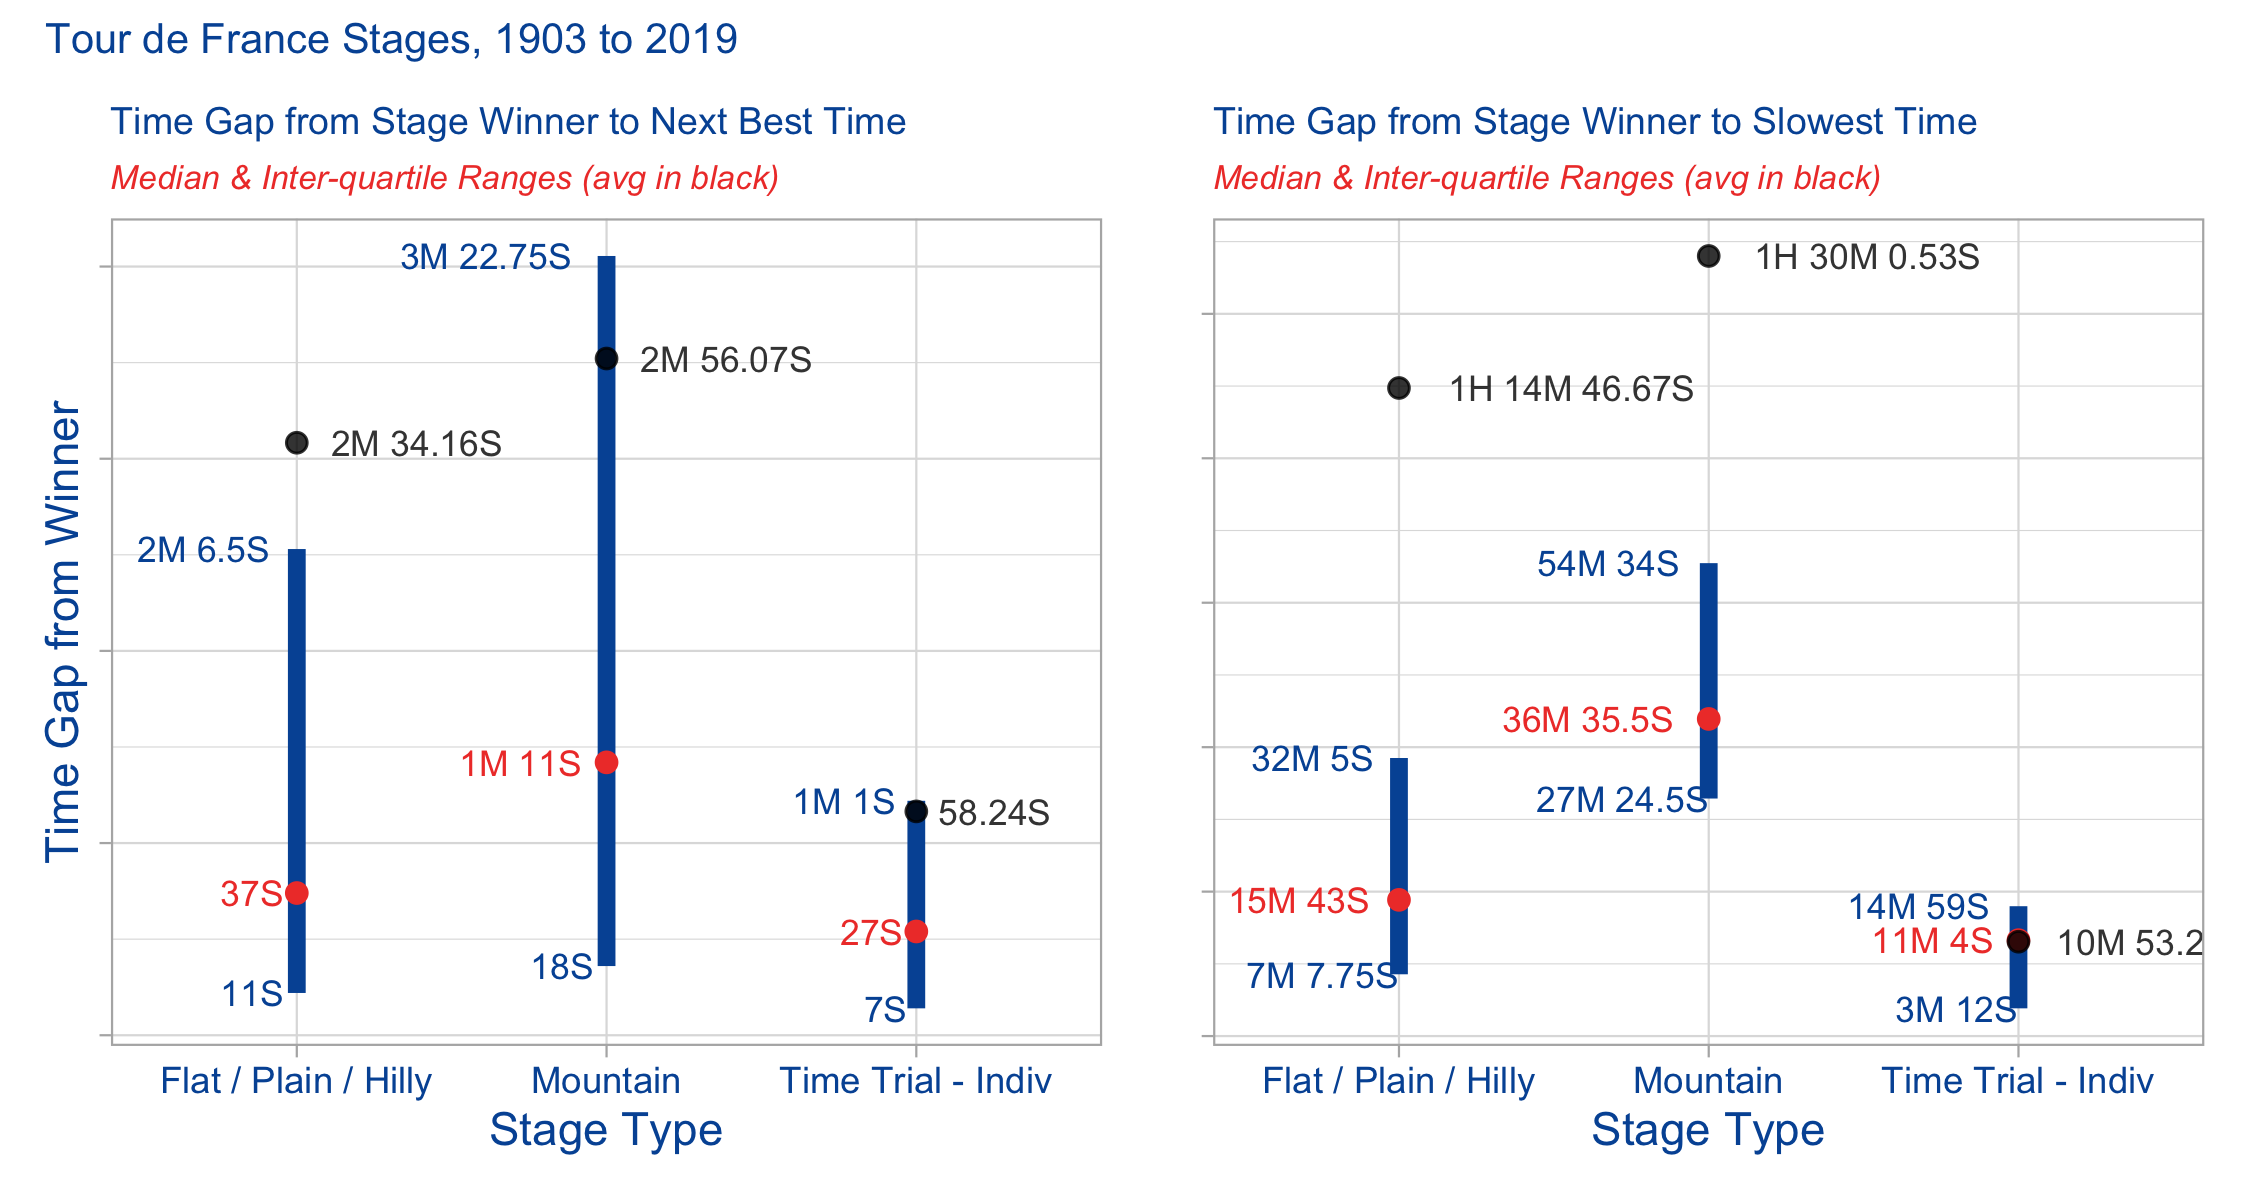
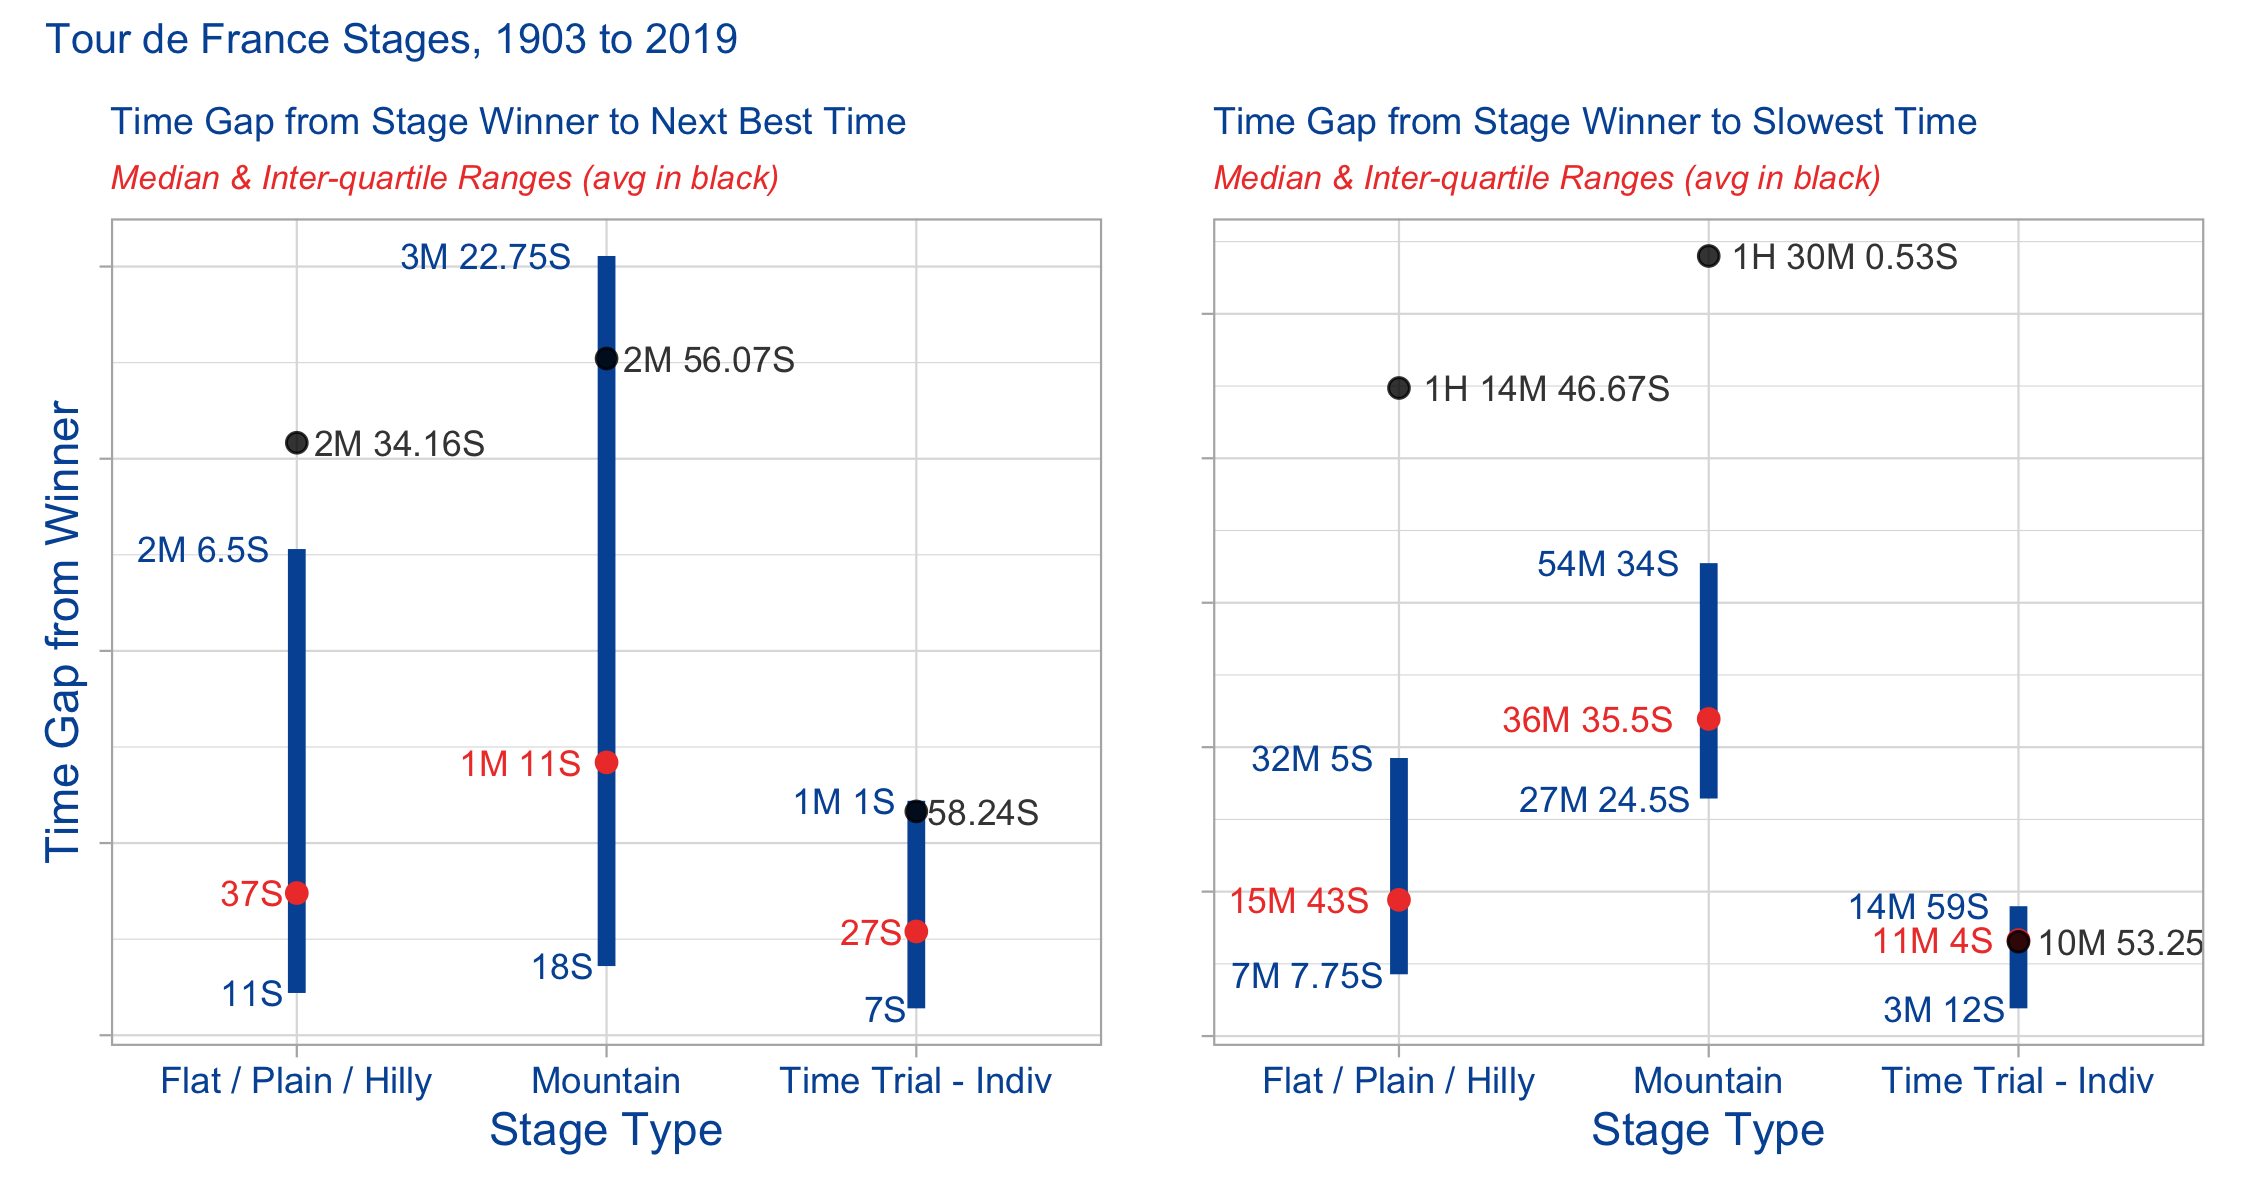
le tour stage 3

diff --git a/2020/tt_2020-04-07_letour/README.md b/2020/tt_2020-04-07_letour/README.md
@@ -407,7 +407,7 @@ gapranges %>%
   geom_text(aes(y = lq, label = lq_tp), 
             size = 3, color = "#0055A4", hjust = 1.2) +
   geom_text(aes(label = avggap_tp, y = avggap_tp),
-            size = 3, color = "black", alpha = .8, hjust = -.2) +
+            size = 3, color = "black", alpha = .8, hjust = -.1) +
   labs(title = "Time Gap from Stage Winner to Next Best Time",
        subtitle = "Median & Inter-quartile Ranges (avg in black)",
        y = "Time Gap from Winner", x = "Stage Type") +
@@ -432,9 +432,9 @@ gapranges %>%
   geom_text(aes(y = uq, label = uq_tp), 
             size = 3, color = "#0055A4", hjust = 1.2) +
   geom_text(aes(y = lq, label = lq_tp), 
-            size = 3, color = "#0055A4", hjust = 1) +
+            size = 3, color = "#0055A4", hjust = 1.1) +
   geom_text(aes(label = avggap_tp, y = avggap_tp),
-            size = 3, color = "black", alpha = .8, hjust = -.2) +
+            size = 3, color = "black", alpha = .8, hjust = -.1) +
   labs(title = "Time Gap from Stage Winner to Slowest Time",
        subtitle = "Median & Inter-quartile Ranges (avg in black)",
        y = "", x = "Stage Type") +
